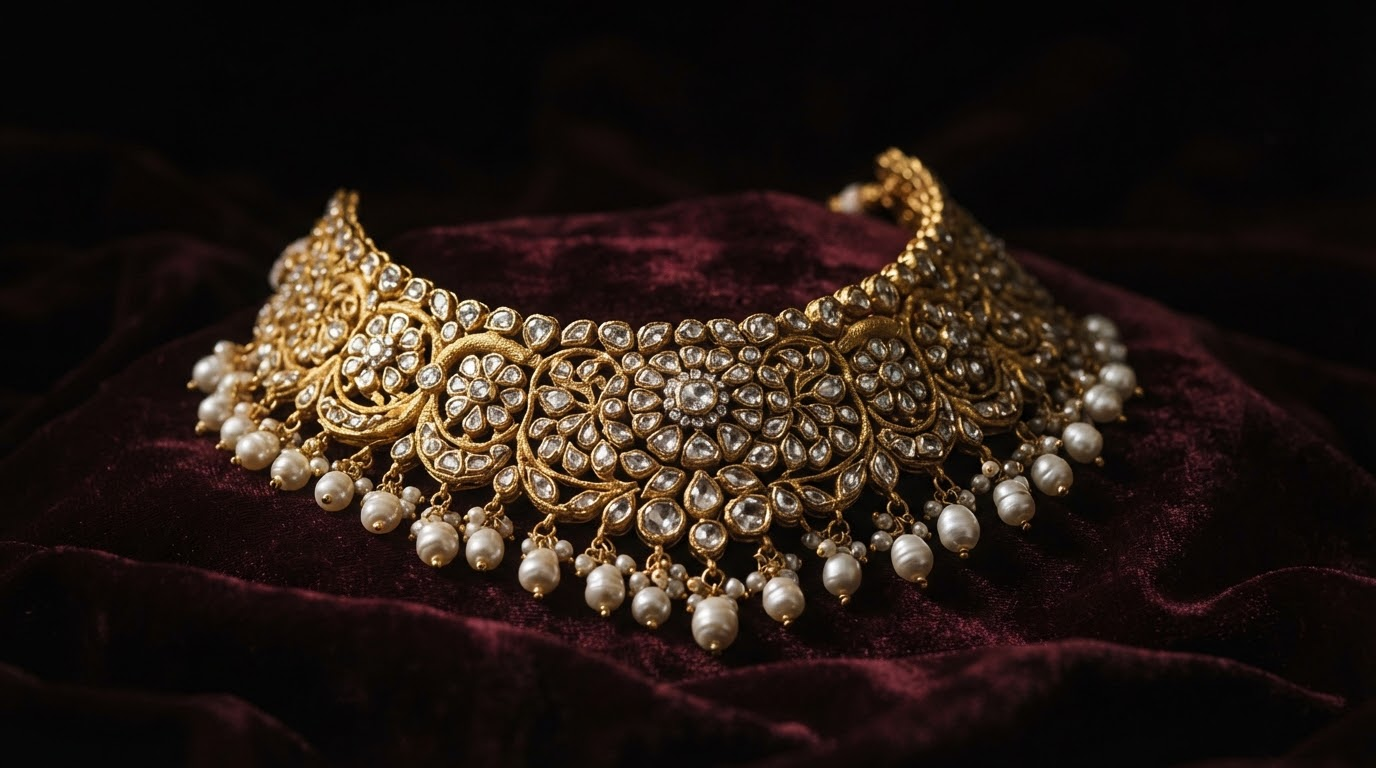
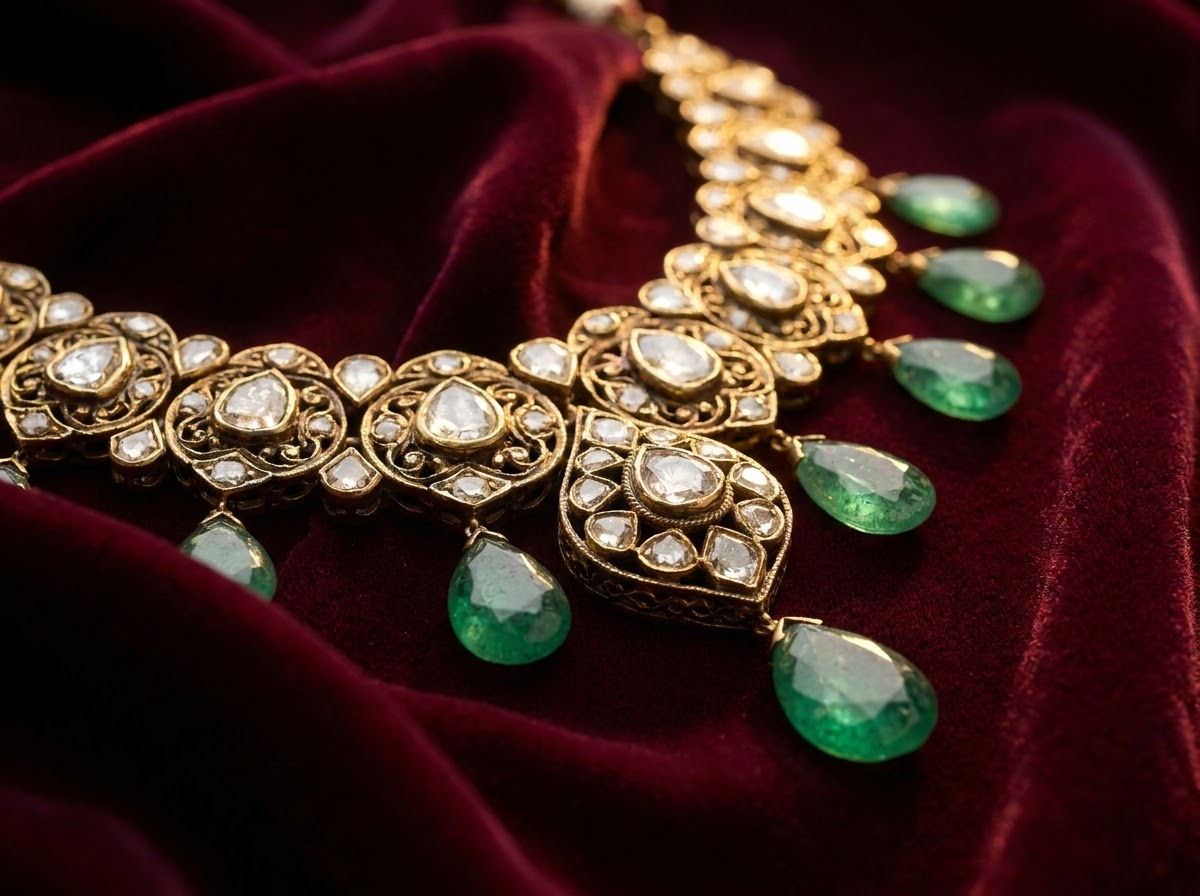
fix(hero & whatsapp): restore green emerald drops hero necklace master asset and remove showroom details line from whatsapp text

diff --git a/lib/utils/whatsapp.ts b/lib/utils/whatsapp.ts
@@ -67,8 +67,6 @@ export function getWhatsAppProductUrl(
     if (productUrl) {
       message += `\n\n${productUrl}`;
     }
-
-    message += `\n\nPlease share availability and showroom details in Parvatsar.`;
   }
 
   const encoded = encodeURIComponent(message);
